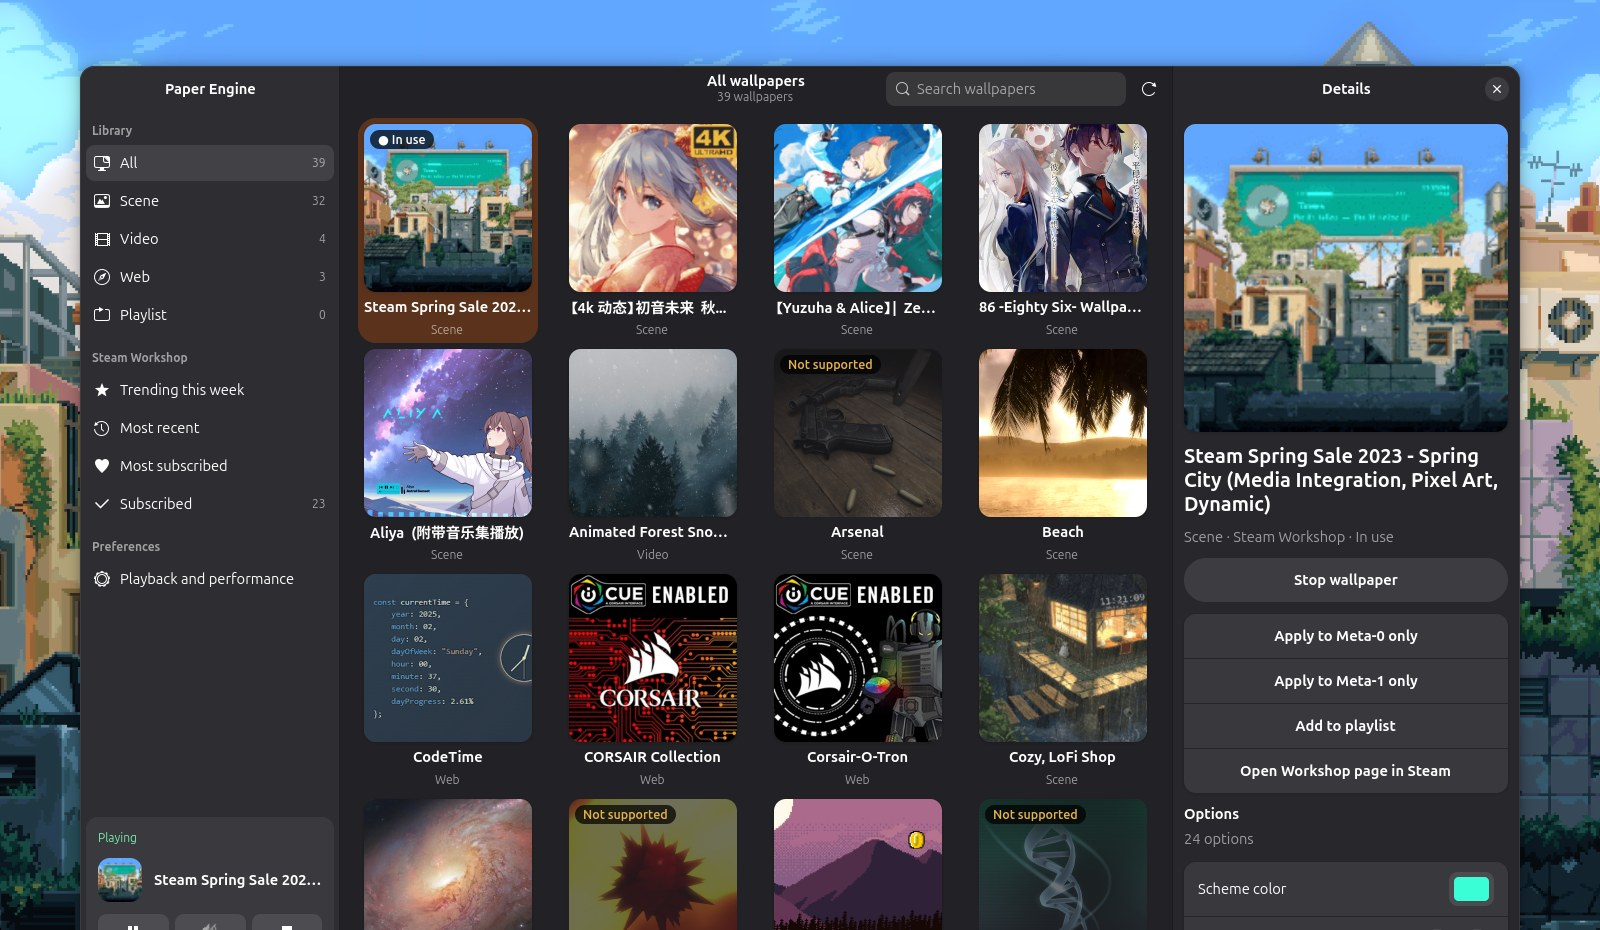
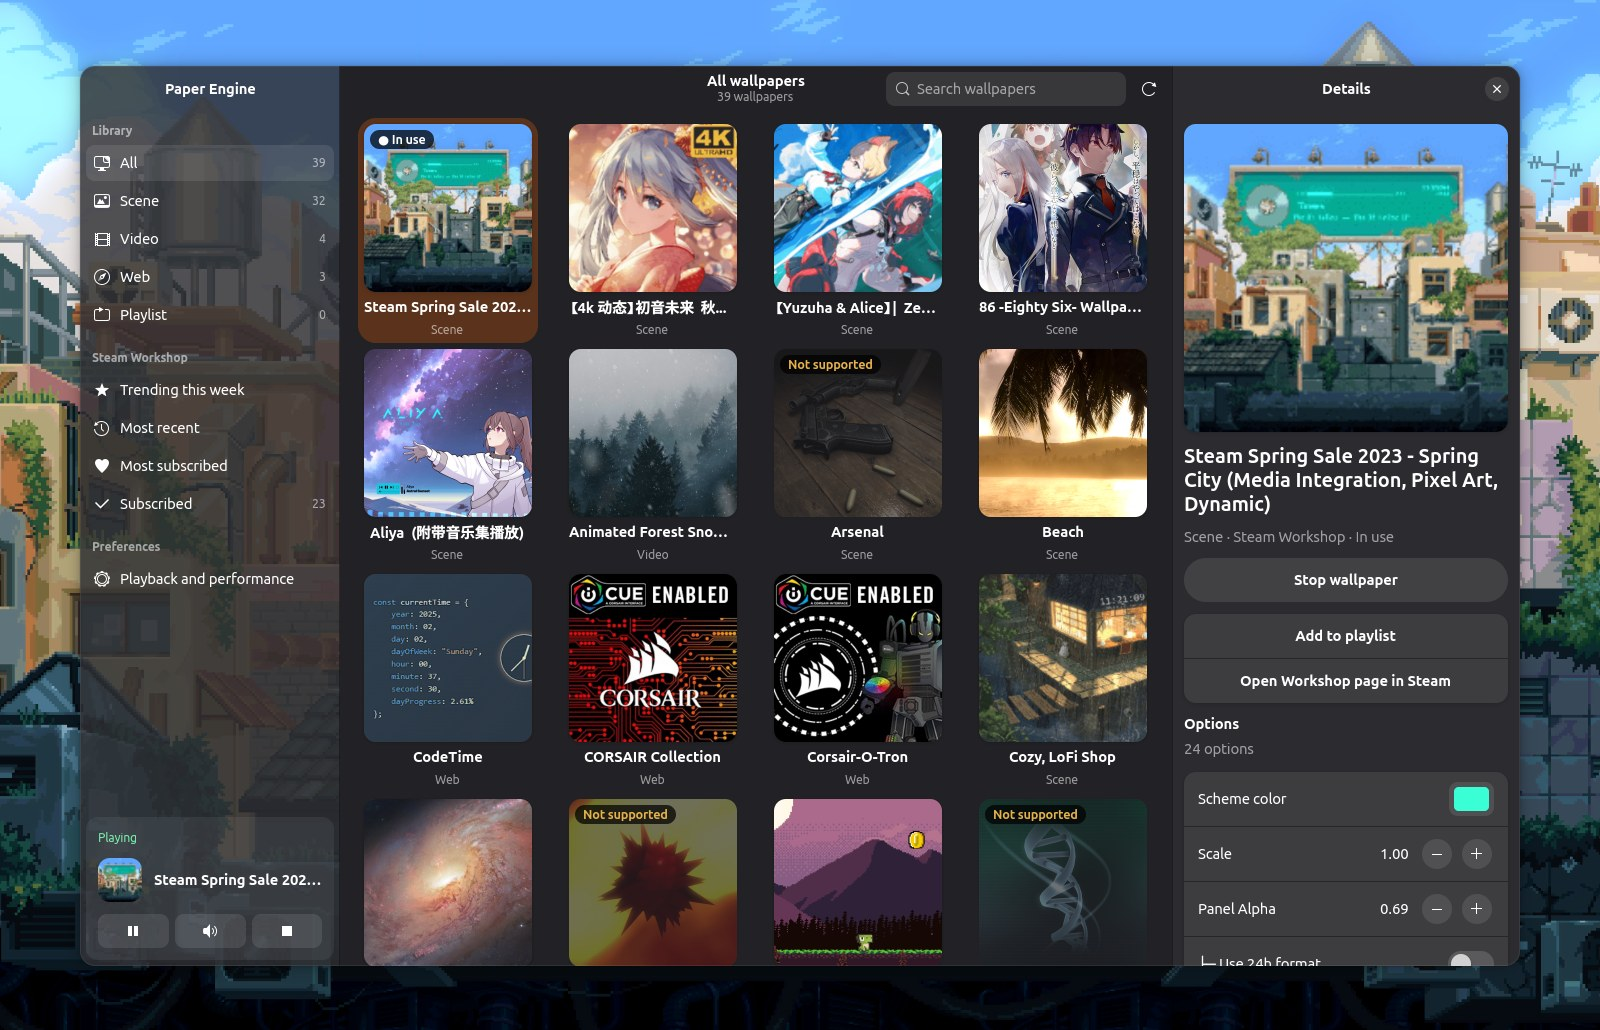
docs: refresh the picker screenshot and add the settings page

diff --git a/README.md b/README.md
@@ -45,6 +45,10 @@ own Steam library; nothing is bundled here.
 </p>
 
 <p align="center">
+  <img src="docs/settings.jpg" width="85%" alt="The playback and performance settings: playback rules, frame rate limit, scene resolution and particles, and the graphics card">
+</p>
+
+<p align="center">
   <img src="docs/workspaces.jpg" width="85%" alt="The overview with windows on several workspaces, each showing the wallpaper">
 </p>
 
